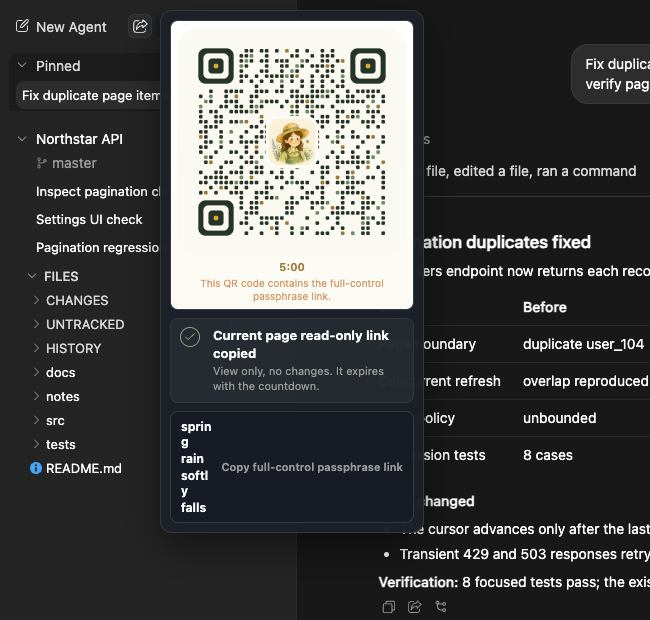
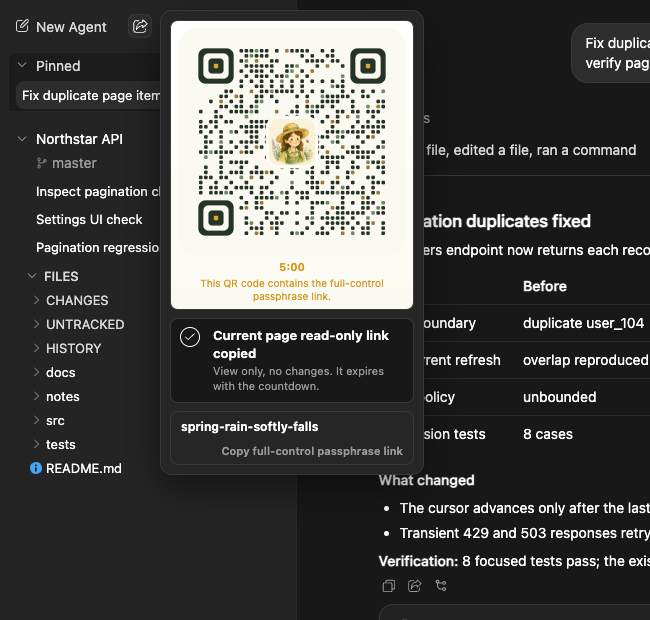
fix: keep non-Chinese share tokens on one line

diff --git a/src/components/code/ShareQrButton.tsx b/src/components/code/ShareQrButton.tsx
@@ -61,7 +61,9 @@ function shareTicketIsFresh(ticket: ShareTicket | null, now: number) {
   return Boolean(ticket && ticket.expiresAt > now + 1000)
 }
 
-function tokenDisplayLines(value: string) {
+export function tokenDisplayLines(value: string) {
+  const compact = value.replace(/-/g, '')
+  if (!compact || !/^\p{Script=Han}+$/u.test(compact)) return [value]
   const parts = value
     .split('-')
     .map(part => part.trim())
@@ -433,7 +435,8 @@ export function ShareQrButton({
   const countdown = ticket ? formatCountdown(ticket.expiresAt - now) : ''
   const tokenLabel = ticket?.tokenLabel || copy.loading
   const tokenParts = tokenDisplayLines(tokenLabel)
-  const tokenLines = singleLineTokenFits || tokenParts.length <= 1 ? [tokenLabel] : tokenParts
+  const segmentedToken = tokenParts.length > 1
+  const tokenLines = segmentedToken && !singleLineTokenFits ? tokenParts : [tokenLabel]
 
   return (
     <div
@@ -532,11 +535,14 @@ export function ShareQrButton({
               data-testid="code-share-copy-link"
               onClick={() => void copyFullAccessLink()}
             >
-              <span className="code-share-token-card-main">
+              <span
+                className={`code-share-token-card-main${segmentedToken ? '' : ' non-segmented'}`}
+              >
                 <span
                   ref={tokenDisplayRef}
-                  className={`code-share-token ${singleLineTokenFits ? 'single-line' : ''}`}
+                  className={`code-share-token ${tokenLines.length === 1 ? 'single-line' : ''}`}
                   aria-label={tokenLabel}
+                  title={tokenLabel}
                 >
                   <span ref={tokenMeasureRef} className="code-share-token-measure" aria-hidden="true">{tokenLabel}</span>
                   {tokenLines.map((line, index) => (

diff --git a/tests/share-qr-token-layout.test.ts b/tests/share-qr-token-layout.test.ts
@@ -1,0 +1,17 @@
+import assert from 'node:assert/strict'
+import test from 'node:test'
+import { tokenDisplayLines } from '../src/components/code/ShareQrButton'
+
+test('keeps non-Chinese share passphrases on one line', () => {
+  assert.deepEqual(
+    tokenDisplayLines('spring-rain-softly-falls'),
+    ['spring-rain-softly-falls'],
+  )
+})
+
+test('keeps Chinese share passphrase segments available for multiline display', () => {
+  assert.deepEqual(
+    tokenDisplayLines('春风轻拂长堤岸边-轻落庭前幽静深处-一枝梅花悄然盛开'),
+    ['春风轻拂长堤岸边', '轻落庭前幽静深处', '一枝梅花悄然盛开'],
+  )
+})

diff --git a/src/styles/share.css b/src/styles/share.css
@@ -193,6 +193,20 @@
   gap: 10px;
 }
 
+.code-share-token-card-main.non-segmented {
+  grid-template-columns: minmax(0, 1fr);
+}
+
+.code-share-token-card-main.non-segmented .code-share-token {
+  overflow: hidden;
+  overflow-wrap: normal;
+  text-overflow: ellipsis;
+}
+
+.code-share-token-card-main.non-segmented .code-share-copy-action {
+  text-align: right;
+}
+
 .code-share-token {
   min-width: 0;
   color: var(--code-text);
